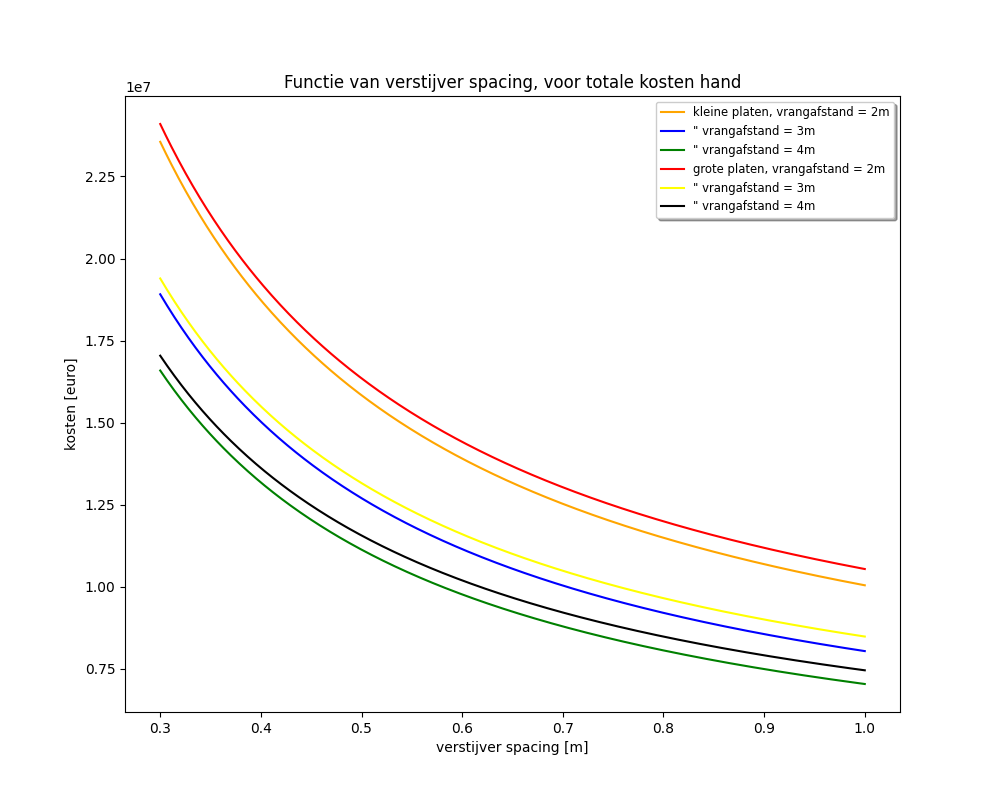
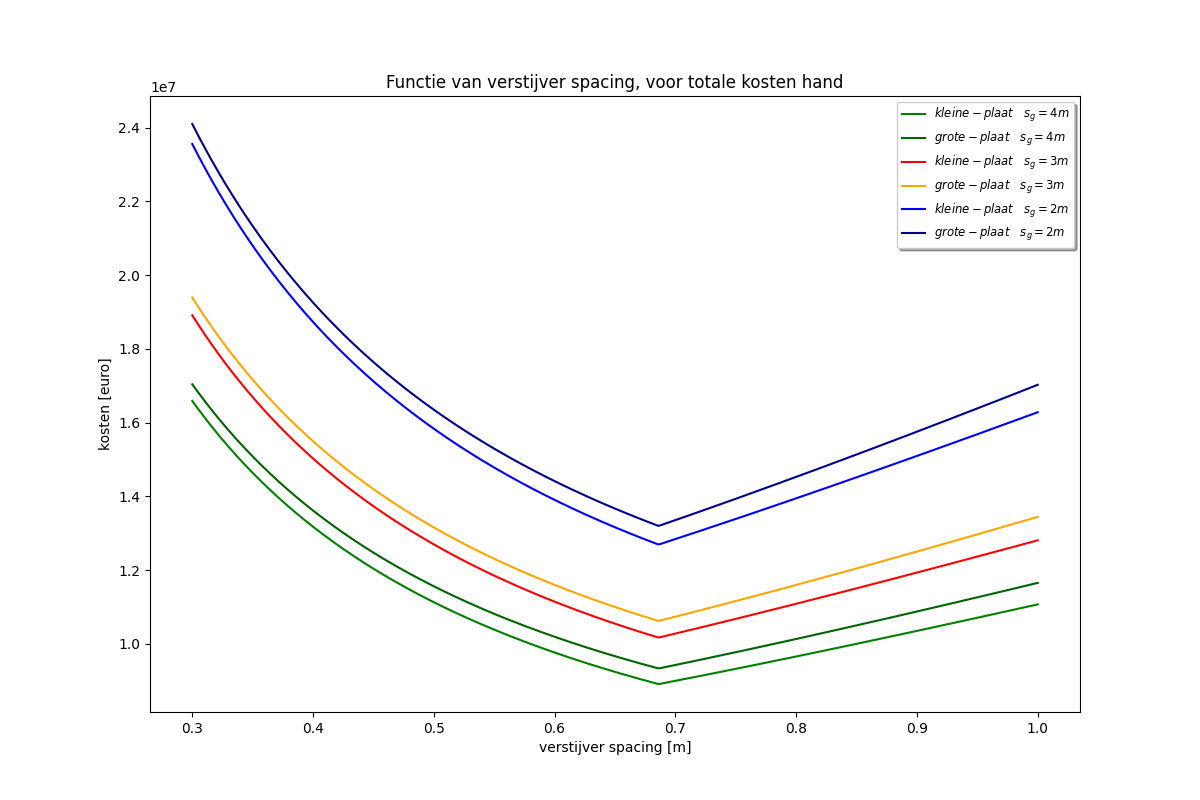
hpo

diff --git a/plaatproductie/herkansing.py b/plaatproductie/herkansing.py
@@ -1,0 +1,166 @@
+import matplotlib.pyplot as plt
+import numpy as np
+import math as m
+
+ss = np.linspace(0.3,1.0,num=500)
+groepsnummer = 2
+station  = 5
+uren = 8
+A_bulb = 0.001780
+n_perstation= 3 #aantal pesonen  
+T = 8
+Ks = 1.2
+rho = 1025
+g = 9.81
+p = T *g *rho
+sigma_y = 355E6
+tp_form = ss*np.sqrt((p*Ks)/(2*sigma_y))
+tp = np.zeros(len(tp_form))
+
+for i in range(len(tp_form)):
+    if tp_form[i] <= 0.008:
+        tp[i] = 0.008
+    else:
+        tp[i] = tp_form[i]
+
+
+tpmm = tp*1000
+Bp = 12
+bp = 3
+Lp= 12
+A= 144
+hvrang = 1.25
+hspant = 0.16
+capaciteit = 22500 + 4/3* 17280
+
+
+class totaal():
+
+    def klein_hand(sg):
+        nzaathout = 4
+        aantal_jaar = capaciteit/A 
+        nplaat = Bp/bp
+        nlas = nplaat -1
+        nspant = Bp/ss-nzaathout -1
+        nvrang = Lp/sg
+        nkruising = nvrang*(nspant+nzaathout)
+        Llas_plaat = nlas*Lp     
+        Llas_spant = nspant*Lp*2  
+        Llas_vrang_hori = nvrang*Bp*2  
+        Llas_zaathout = nzaathout*Lp*2   
+        Llas_vrang_verti = hvrang*nkruising*4 +nspant*hspant*2
+        Llas = Llas_plaat + Llas_spant + Llas_vrang_hori + Llas_zaathout + Llas_vrang_verti
+
+        materiaal = 35521200*tp + 3415500/sg + 355212000*A_bulb/ss-118404000*A_bulb+1138500+3900*tp*Llas
+
+        urenpplaat = nplaat + 2 + 1/0.35*(Llas_plaat/15 +(Llas_vrang_verti/1.2 +(Llas_vrang_hori+Llas_zaathout+Llas_spant)/2)*(7.8*tpmm**2/2000) )+0.5*(nspant)+4*(nvrang+nzaathout)
+        personeel = aantal_jaar*50* urenpplaat
+
+        loods
+
+        vastekosten = 90*loods
+
+        totaal = materiaal + personeel + vastekosten 
+        return totaal, materiaal, personeel, vastekosten
+
+    def groot_hand(sg):
+        nzaathout = 8
+        aantal_jaar = capaciteit/(2*A) 
+        nplaat = 2*Bp/bp
+        nlas = nplaat -1
+        nspant = 2*Bp/ss-nzaathout -1
+        nvrang = Lp/sg
+        nkruising = nvrang*(nspant+nzaathout)
+        Llas_plaat = nlas*Lp 
+        Llas_spant = nspant*Lp*2  
+        Llas_vrang_hori = nvrang*2*Bp*2  
+        Llas_zaathout = nzaathout*Lp*2   
+        Llas_vrang_verti = hvrang*nkruising*4 +nspant*hspant*2
+        Llas = Llas_plaat + Llas_spant + Llas_vrang_hori + Llas_zaathout + Llas_vrang_verti
+
+        materiaal = 35521200*tp + 3415500/sg + 355212000*A_bulb/ss-118404000*A_bulb+1138500+3900*tp*Llas
+
+        urenpplaat = nplaat + 2 + 1/0.35*(Llas_plaat/15 +(Llas_vrang_verti/1.2 +(Llas_vrang_hori+Llas_zaathout+Llas_spant)/2)*(7.8*tpmm**2/2000) )+0.5*(nspant)+8*(nvrang+nzaathout)
+
+        personeel = aantal_jaar*50*urenpplaat
+
+        vastekosten = 90*loods
+
+        totaal = materiaal + personeel + vastekosten 
+        return totaal, materiaal, personeel, vastekosten
+
+    def klein_robot(sg):
+        nzaathout = 4
+        aantal_jaar = capaciteit/A 
+        nplaat = Bp/bp
+        nlas = nplaat -1
+        nspant = Bp/ss-nzaathout -1
+        nvrang = Lp/sg
+        nkruising = nvrang*(nspant+nzaathout)
+        Llas_plaat = nlas*Lp 
+        Llas_spant = nspant*Lp*2  
+        Llas_vrang_hori = nvrang*Bp*2  
+        Llas_zaathout = nzaathout*Lp*2   
+        Llas_vrang_verti = hvrang*nkruising*4 +nspant*hspant*2
+        Llas = Llas_plaat + Llas_spant + Llas_vrang_hori + Llas_zaathout + Llas_vrang_verti
+
+        materiaal = 35521200*tp + 3415500/sg + 355212000*A_bulb/ss-118404000*A_bulb+1138500+3900*tp*Llas
+
+        urenpplaat = 1/0.6*(((Llas_zaathout/2+Llas_vrang_verti/1.2+Llas_vrang_hori/2)*7.8*tpmm**2)/4000) +2*(nvrang+nzaathout)
+        personeel = aantal_jaar*90*3/5*urenpplaat
+        loods = 1500
+        vastekosten = 70*loods +275000*10
+        totaal = materiaal + personeel + vastekosten 
+        return totaal, materiaal, personeel, vastekosten
+
+    def groot_robot(sg):
+        nzaathout = 8
+        aantal_jaar = capaciteit/(2*A) 
+        nplaat = 2*Bp/bp
+        nlas = nplaat -1
+        nspant = 2*Bp/ss-nzaathout -1
+        nvrang = Lp/sg
+        nkruising = nvrang*(nspant+nzaathout)
+        Llas_plaat = nlas*Lp 
+        Llas_spant = nspant*Lp*2  
+        Llas_vrang_hori = nvrang*2*Bp*2  
+        Llas_zaathout = nzaathout*Lp*2   
+        Llas_vrang_verti = hvrang*nkruising*4 +nspant*hspant*2
+        Llas = Llas_plaat + Llas_spant + Llas_vrang_hori + Llas_zaathout + Llas_vrang_verti
+
+        materiaal = 35521200*tp + 3415500/sg + 355212000*A_bulb/ss-118404000*A_bulb+1138500+3900*tp*Llas
+
+        urenpplaat = 1/0.6*(((Llas_zaathout/2+Llas_vrang_verti/1.2+Llas_vrang_hori/2)*7.8*tpmm**2)/4000) +4*(nvrang+nzaathout)
+        personeel = aantal_jaar*90*3/5*urenpplaat
+        loods = 1500
+        vastekosten = 70*loods +300000*10
+
+        totaal = materiaal + personeel + vastekosten 
+        return totaal, materiaal, personeel, vastekosten
+
+
+k_h_4_tot, k_h_4_mat,k_h_4_per,k_h_4_vast = totaal.klein_hand(4)
+g_h_4_tot, g_h_4_mat,g_h_4_per,g_h_4_vast = totaal.groot_hand(4)
+
+k_h_3_tot, k_h_3_mat,k_h_3_per,k_h_3_vast = totaal.klein_hand(3)
+g_h_3_tot, g_h_3_mat,g_h_3_per,g_h_3_vast = totaal.groot_hand(3)
+
+k_h_2_tot, k_h_2_mat,k_h_2_per,k_h_2_vast = totaal.klein_hand(2)
+g_h_2_tot, g_h_2_mat,g_h_2_per,g_h_2_vast = totaal.groot_hand(2)
+
+def plot_totaal(titel):
+    figure = plt.figure(figsize=(12,8))
+    plt.plot(ss,k_h_4_tot, c="green"     ,label="$kleine-plaat \quad s_g = 4m$")
+    plt.plot(ss,g_h_4_tot, c="darkgreen"     ,label="$grote-plaat \quad s_g = 4m$")
+    plt.plot(ss,k_h_3_tot, c="red"     ,label="$kleine-plaat \quad s_g = 3m$")
+    plt.plot(ss,g_h_3_tot, c="orange"     ,label="$grote-plaat \quad s_g = 3m$")
+    plt.plot(ss,k_h_2_tot, c="blue"     ,label="$kleine-plaat \quad s_g = 2m$")
+    plt.plot(ss,g_h_2_tot, c="darkblue"     ,label="$grote-plaat \quad s_g = 2m$")
+    plt.xlabel("verstijver spacing [m]")
+    plt.ylabel("kosten [euro]")
+    titeltje= "Functie van verstijver spacing, voor "+titel
+    plt.title(titeltje)
+    plt.legend(loc = "best", shadow = True, fontsize="small")
+    figure.savefig("./plaatproductie/"+titel+".png")
+
+plot_totaal("totale kosten hand")
